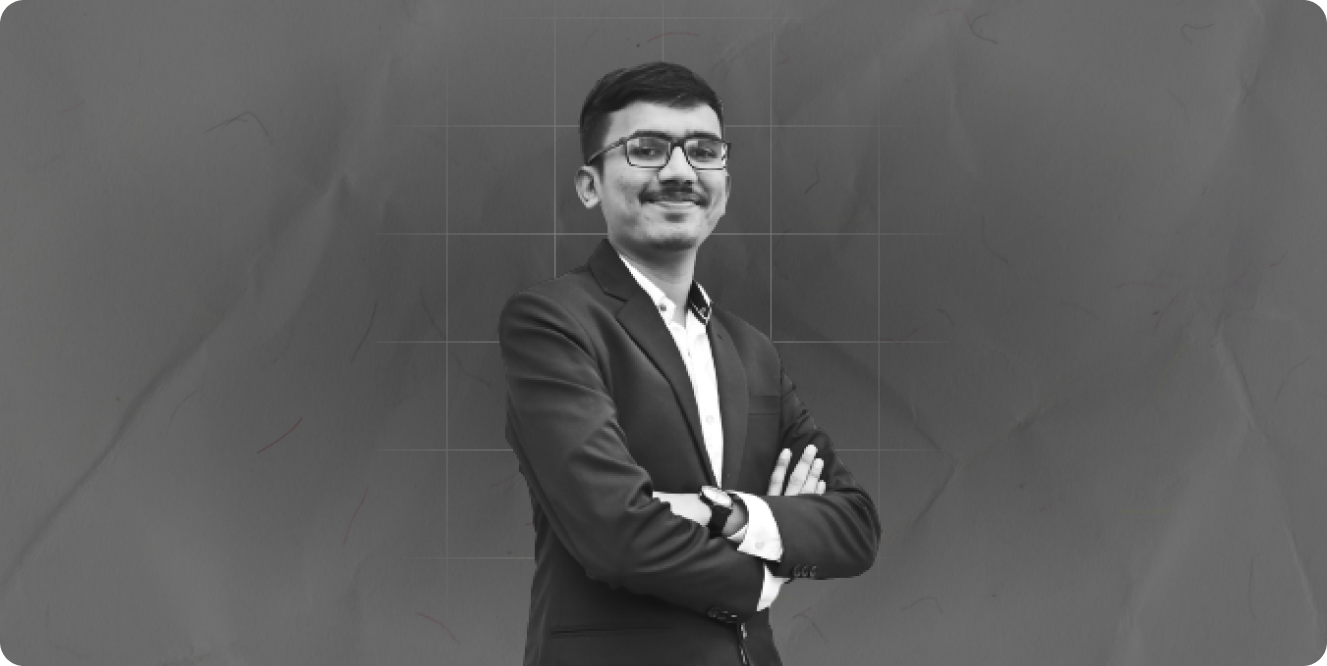
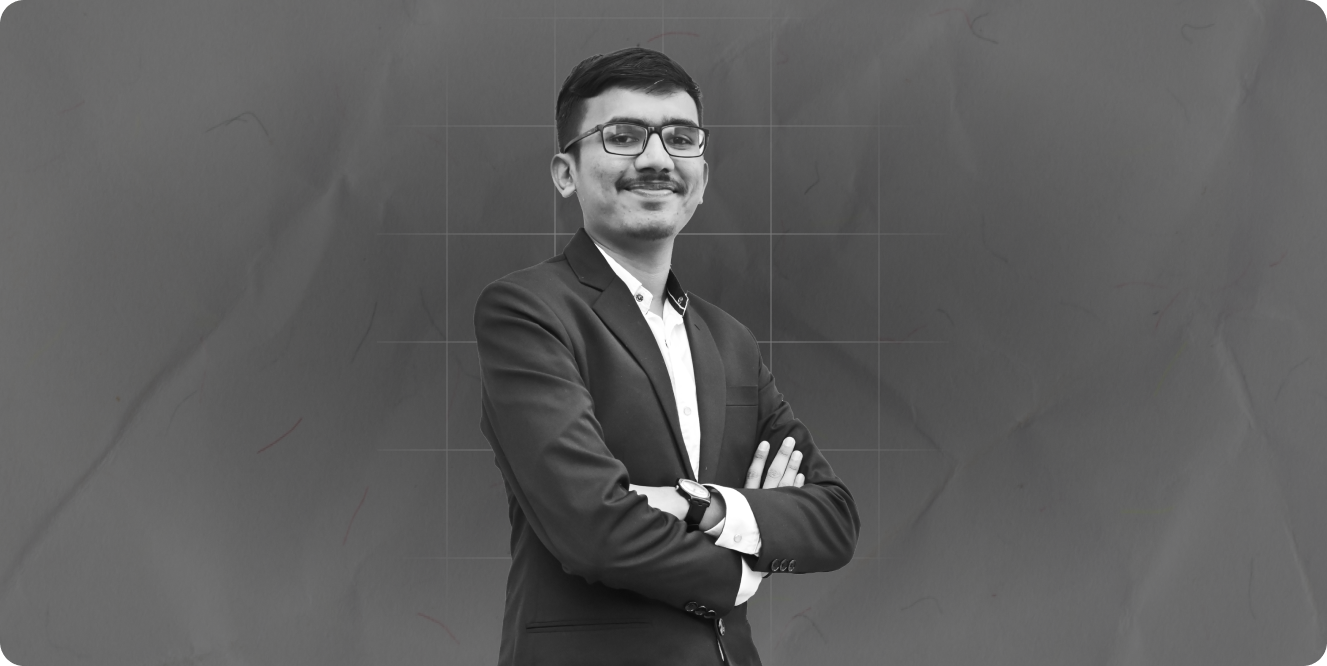
hero responsive

Changed region(s): [[0.3708, 0.0601, 0.6797, 1.0]]

diff --git a/src/Components/Hero/hero.css b/src/Components/Hero/hero.css
@@ -8,12 +8,12 @@
   background-color: #ffffff;
   background-image: url(../../Assets/Images/noise.png);
   background-size: cover;
-  padding: 138px 0px 0px;
+  padding: 100px 0px 0px;
   position: relative;
 }
 .hero-con {
   width: 1200px;
-  height: 500px;
+  height: 560px;
   background-image: url(../../Assets/Images/heroBg.png);
   background-position: center;
   background-size: cover;
@@ -26,17 +26,32 @@
   padding: 14vh 0px;
 }
 .hero-banner {
-  /* background-image: url(../../Assets/Images/heroTexture.png);
-  background-position: center center; */
-  /* background-color: #151515; */
-  background: #d82635;
+  background: transparent;
   display: flex;
   flex-direction: column;
-  gap: 24px;
+  gap: 16px;
   align-items: center;
   justify-content: center;
   width: 100%;
-  padding: 28px 0px;
+  padding: 12px 0px;
+  margin-top: 140px;
+  position: relative;
+}
+.hero-banner-slider {
+  position: absolute;
+  width: 100%;
+  height: 100%;
+  left: 0;
+  background-color: #cd2432;
+  animation: slide 2s 1 forwards ease;
+}
+@keyframes slide {
+  0% {
+    width: 0%;
+  }
+  100% {
+    width: 100%;
+  }
 }
 .hero-banner-text-1 {
   font-family: "Tomato Grotesk Regular";
@@ -139,5 +154,101 @@
   100% {
     opacity: 1;
     transform: translateY(0px);
+  }
+}
+@media screen and (max-width: 1300px) {
+  .hero-con {
+    width: 1000px;
+  }
+}
+@media screen and (max-width: 1080px) {
+  .hero-con {
+    width: calc(100vw - 120px);
+    height: 650px;
+  }
+}
+@media screen and (max-width: 850px) {
+  .hero-con {
+    width: calc(100vw - 60px);
+    height: 85%;
+  }
+  .hero-tag {
+    padding: 12px 24px;
+    background: rgba(43, 42, 42, 0.65);
+  }
+  .hero-tag-circle {
+    height: 9px;
+    width: 9px;
+  }
+  .hero-tag-text {
+    font-size: 18px;
+  }
+  .hero-banner-text-main {
+    font-size: 54px;
+  }
+  .hero-banner-text-flex {
+    font-size: 28px;
+  }
+}
+@media screen and (max-width: 600px) {
+  .hero {
+    padding: 80px 0px 0px;
+  }
+  .hero-con {
+    width: calc(100vw - 40px);
+    height: 85%;
+  }
+  .hero-con {
+    background-image: url(../../Assets/Images/heroBgMob.png);
+  }
+  .hero-tag-text {
+    font-size: 16px;
+  }
+  .hero-banner-text-main {
+    font-size: 48px;
+  }
+  .hero-banner-text-flex {
+    font-size: 24px;
+  }
+  .hero-banner {
+    gap: 8px;
+  }
+}
+@media screen and (max-width: 560px) {
+  .hero-tag-text {
+    font-size: 12px;
+  }
+}
+@media screen and (max-width: 500px) {
+  .hero-banner {
+    margin-top: 400px;
+  }
+  .hero-banner-text-main {
+    font-size: 40px;
+  }
+  .hero-banner-text-flex {
+    font-size: 18px;
+  }
+  .hero-banner-img {
+    width: 40px;
+  }
+}
+@media screen and (max-width: 450px) {
+  .hero-tag-text {
+    font-size: 10px;
+  }
+  .hero-banner {
+    gap: 0px;
+  }
+}
+@media screen and (max-width: 400px) {
+  .hero-tag {
+    padding: 8px 16px;
+  }
+  .hero-banner-text-main {
+    font-size: 36px;
+  }
+  .hero-banner-text-flex {
+    font-size: 16px;
   }
 }

diff --git a/src/Components/Navbar/Nav.js b/src/Components/Navbar/Nav.js
@@ -9,18 +9,24 @@ const Nav = () => {
   const [nav, setNav] = useState(false);
   return (
     <div className={nav ? "nav nav-fixed" : "nav"}>
-      <span className={nav ? "nav-text-active nav-text" : "nav-text"}>RKL</span>
+      <span className={nav ? "nav-text-active nav-text-1" : "nav-text-1"}>
+        RKL
+      </span>
       <AiOutlinePlus
         className={nav ? "nav-img-active nav-img" : "nav-img"}
         onClick={() => setNav(!nav)}
       />
-      <span className={nav ? "nav-text-active nav-text" : "nav-text"}>
+      <span className={nav ? "nav-text-active nav-text-2" : "nav-text-2"}>
         MUMBAI,INDIA
       </span>
       {nav ? (
         <div className="nav-dropdown">
           <div className="nav-dropdown-item">
-            <img src={nav1} alt="Design" className="nav-dropdown-img non-draggable" />
+            <img
+              src={nav1}
+              alt="Design"
+              className="nav-dropdown-img non-draggable"
+            />
             <a
               href="#projects"
               className="nav-dropdown-text"
@@ -30,7 +36,11 @@ const Nav = () => {
             </a>
           </div>
           <div className="nav-dropdown-item">
-            <img src={nav2} alt="Design" className="nav-dropdown-img non-draggable" />
+            <img
+              src={nav2}
+              alt="Design"
+              className="nav-dropdown-img non-draggable"
+            />
             <a
               href="#contact"
               className="nav-dropdown-text"
@@ -40,7 +50,11 @@ const Nav = () => {
             </a>
           </div>
           <div className="nav-dropdown-item" style={{ borderBottom: "none" }}>
-            <img src={nav3} alt="Design" className="nav-dropdown-img non-draggable" />
+            <img
+              src={nav3}
+              alt="Design"
+              className="nav-dropdown-img non-draggable"
+            />
             <a
               href="#about"
               className="nav-dropdown-text"

diff --git a/src/Components/Navbar/nav.css b/src/Components/Navbar/nav.css
@@ -4,13 +4,27 @@
   justify-content: space-between;
   align-items: center;
   position: absolute;
-  top: 62px;
+  top: 36px;
   z-index: 3;
 }
 .nav-fixed {
   position: fixed;
 }
-.nav-text {
+.nav-text-1 {
+  font-family: "Tomato Grotesk Medium";
+  font-style: normal;
+  font-size: 24px;
+  line-height: 100%;
+  letter-spacing: 0.12em;
+  text-transform: uppercase;
+  color: #151515;
+  width: 200px;
+  position: relative;
+  z-index: 3;
+  transition: all 0.3s ease-in-out;
+}
+.nav-text-2 {
+  display: flex;
   font-family: "Tomato Grotesk Medium";
   font-style: normal;
   font-size: 24px;
@@ -101,4 +115,42 @@
   position: absolute;
   bottom: -28px;
   right: 10px;
+}
+@media screen and (max-width: 1300px) {
+  .nav {
+    width: calc(100vw - 120px);
+  }
+  .nav-text-2 {
+    display: none;
+  }
+}
+@media screen and (max-width: 1000px) {
+  .nav-dropdown-item {
+    width: 90vw;
+  }
+}
+@media screen and (max-width: 820px) {
+  .nav-dropdown-img {
+    width: 173px;
+    height: 100px;
+  }
+  .nav-dropdown-text {
+    font-size: 64px;
+  }
+  .nav-dropdown-item {
+    padding: 44px 0px;
+  }
+}
+@media screen and (max-width: 600px) {
+  .nav {
+    top: 24px;
+    width: calc(100vw - 40px);
+  }
+  .nav-dropdown-img {
+    width: 120px;
+    height: 80px;
+  }
+  .nav-dropdown-text {
+    font-size: 40px;
+  }
 }

diff --git a/src/Components/Hero/Hero.js b/src/Components/Hero/Hero.js
@@ -10,6 +10,7 @@ const Hero = () => {
       <Nav />
       <div className="hero-con">
         <div className="hero-banner">
+          <div className="hero-banner-slider" />
           <div className="hero-banner-text-main">Rishabh Lodha</div>
           <div className="hero-banner-text-flex">
             <span>Product Designer</span>
